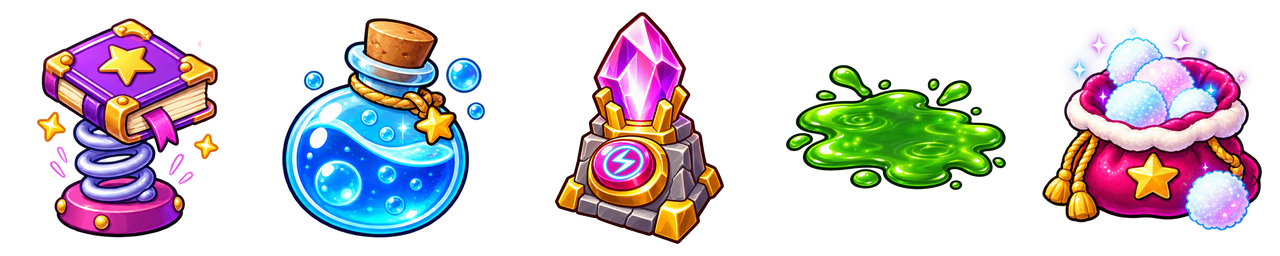
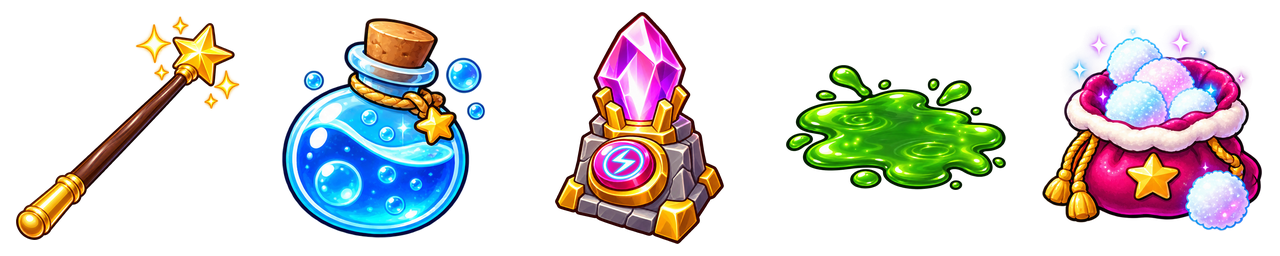
Replace Wizard School pickup with gold-star wand (W1)
Verified alpha, padding and thumbnail readability; other four cells pixel-identical. Cache-stamp test passed.

Changed region(s): [[0.0, 0.0625, 0.1875, 0.9375]]

diff --git a/americangirldollrace/index.html b/americangirldollrace/index.html
@@ -326,7 +326,7 @@
       </section>
     </main>
     <div id="barsHint" hidden><span class="bars-arrow" aria-hidden="true">↑</span> Swipe up to hide Safari’s bars · or Share → Add to Home Screen</div>
-    <script src="config.js?v=bebf578c"></script>
+    <script src="config.js?v=81dc0cfb"></script>
     <script src="tracks.js?v=f0dffbed"></script>
     <script src="doll-art.js?v=05306016"></script>
     <script src="assets/audio/manifest.js?v=f9c91641"></script>

diff --git a/americangirldollrace/config.js b/americangirldollrace/config.js
@@ -6,7 +6,7 @@
  * precedence until GameAudio.resetVolumes() is called.
  */
 window.GAME_CONFIG = {
-  powerupArtVersion: "20261022-emp3",
+  powerupArtVersion: "20261023-wand1",
   trackCardArtVersion: "20261023-cards3",
   dollArtVersion: "20261022-run-redo",
   // Set a doll to true to restore her original art, outfits and alignment.

diff --git a/americangirldollrace/image-requests.md b/americangirldollrace/image-requests.md
@@ -797,7 +797,7 @@ M4/M5 delivered with the owner’s revised designs: M4 is a glossy vintage wind-
 
 ---
 
-## 17. Wizard School: a magic wand pickup icon (open)
+## 17. Delivered Wizard School magic wand pickup icon
 
 Wizard School's high-jump pickup is now the **magic wand** (the doll casts a
 spell that turns the nearest racer or monster into a frog), but its icon,
@@ -840,3 +840,5 @@ the sheet is in, Moon Base keeps the plain horse.
 
 Acceptance: race Moon Base, take a mount pickup, and check the doll sits in
 the seat in every frame both ways, and the wheels stay on the ground line.
+
+W1 delivered: dark wood/gold star-tipped wand replaces only cell 1. The remaining four decoded RGBA cells are pixel-identical; alpha/padding and thumbnail readability reviewed. Source, prompt and before/after evidence: `tools/tracks/wizard-wand/`.
